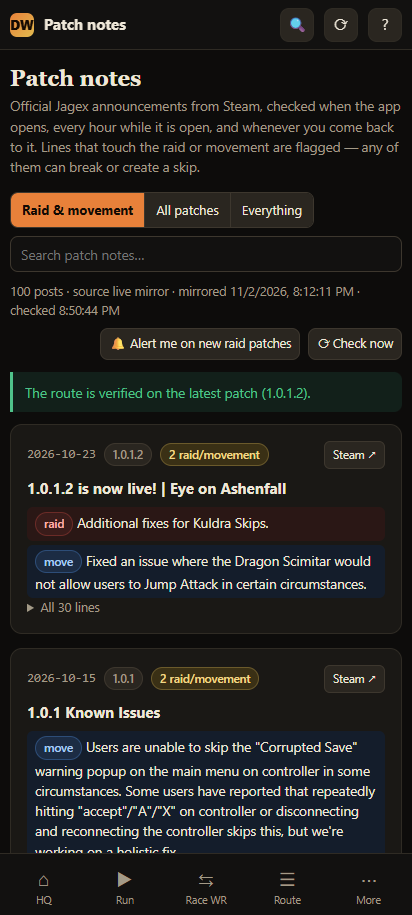
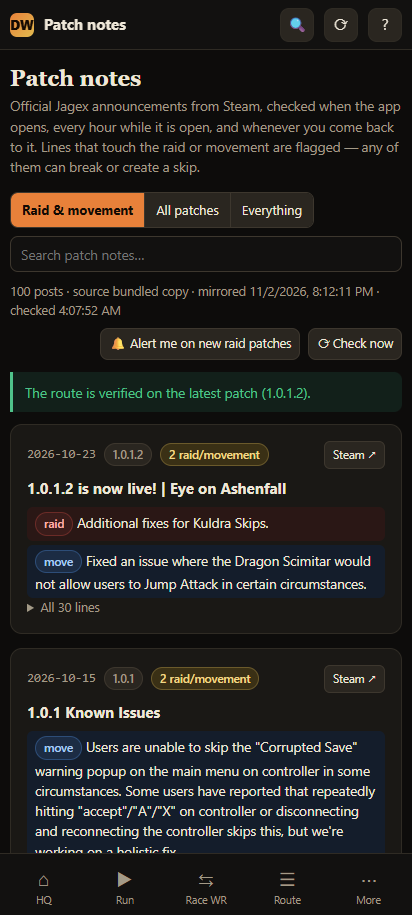
Fit short desktop screens (1234x690 at 175%): cap video height, no stretched hero; patch notes show bundled copy instantly

Changed region(s): [[0.1456, 0.306, 0.9029, 0.3672]]

diff --git a/js/lib/patches.js b/js/lib/patches.js
@@ -40,14 +40,16 @@ async function pull(url) {
 export function refresh({ force = false } = {}) {
   if (!force && Date.now() - lastFetch < 5 * 60 * 1000 && data) return Promise.resolve(data);
   inflight ||= (async () => {
+    // Show the bundled copy at once on first load, then replace it with the live mirror.
+    if (!data) { try { const b = await pull(LOCAL); data = { ...b, source: 'bundled', checkedAt: new Date().toISOString() }; subs.forEach(f => f(data, [])); } catch { /* none */ } }
     let d = null, source = 'github';
     try { d = await pull(REMOTE); } catch { try { d = await pull(LOCAL); source = 'bundled'; } catch { /* offline */ } }
     inflight = null;
     if (!d) return data;
     lastFetch = Date.now();
-    const first = !data;
+    const first = !localStorage.getItem(SEEN);
     data = { ...d, source, checkedAt: new Date().toISOString() };
-    if (first && !localStorage.getItem(SEEN)) markSeen();       // baseline on first ever load
+    if (first) markSeen();       // baseline on first ever load
     const fresh = newPosts();
     subs.forEach(f => f(data, fresh));
     if (fresh.length) notify(fresh);

diff --git a/css/app.css b/css/app.css
@@ -437,3 +437,14 @@ dialog.palette input { width: 100%; font-size: 16px; padding: 12px; }
   .transport { gap: 4px; padding: 8px; }
   .bigclock { font-size: 22px; }
 }
+
+/* Short desktop screens (e.g. 2160x1440 at 175% = ~1234x690 usable): keep video from
+   eating the whole height so controls and tables stay in view. YouTube letterboxes. */
+.hero { align-items: start; }
+@media (min-width: 720px) and (max-height: 900px) {
+  .stage { max-height: 52vh; }
+  .cmp-cell { max-height: 40vh; aspect-ratio: auto; height: 40vh; }
+  .pagehead { margin-bottom: 10px; }
+  .pagehead p { font-size: 14px; }
+  main { padding-top: 14px; }
+}
